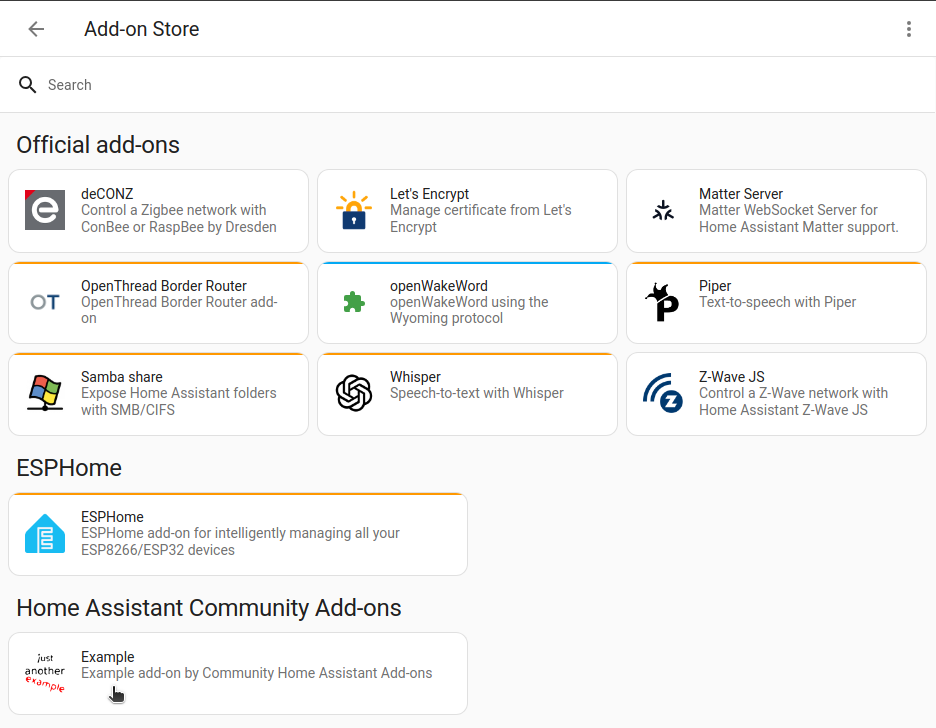
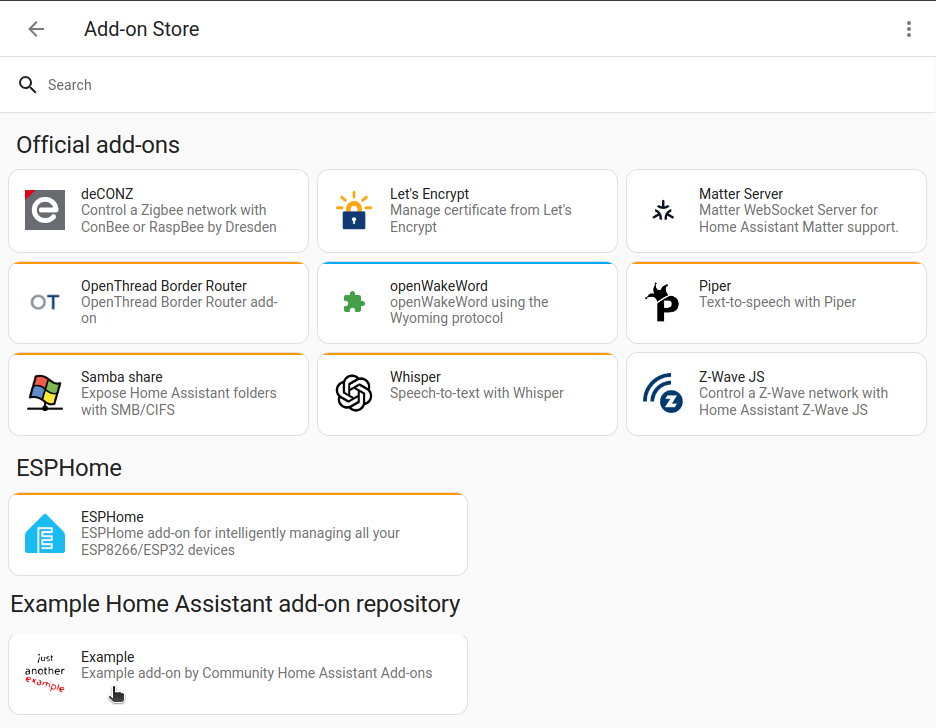
Fix screenshot

Changed region(s): [[0.0, 0.8159, 0.4957, 0.8462]]

diff --git a/source/_includes/common-tasks/third-party-addons.md b/source/_includes/common-tasks/third-party-addons.md
@@ -19,7 +19,7 @@ To add an add-on repository, follow these steps:
 3. In the top right corner, select the three dots {% icon "mdi:dots-vertical" %} menu, and select **Repositories**.
 4. Add the URL of the repository and select **Add**.
    ![Screenshot of the add-on store](/images/hassio/screenshots/adding_repositories.png)
-   - **Result**: A new card for the repository will appear in the **Home Assistant Community Add-ons** section.
+   - **Result**: A new card for the repository will appear.
    ![Screenshot of the add-on store](/images/hassio/screenshots/add-ons-community_example.png)
 
 ### Troubleshooting: Repository is not showing up
